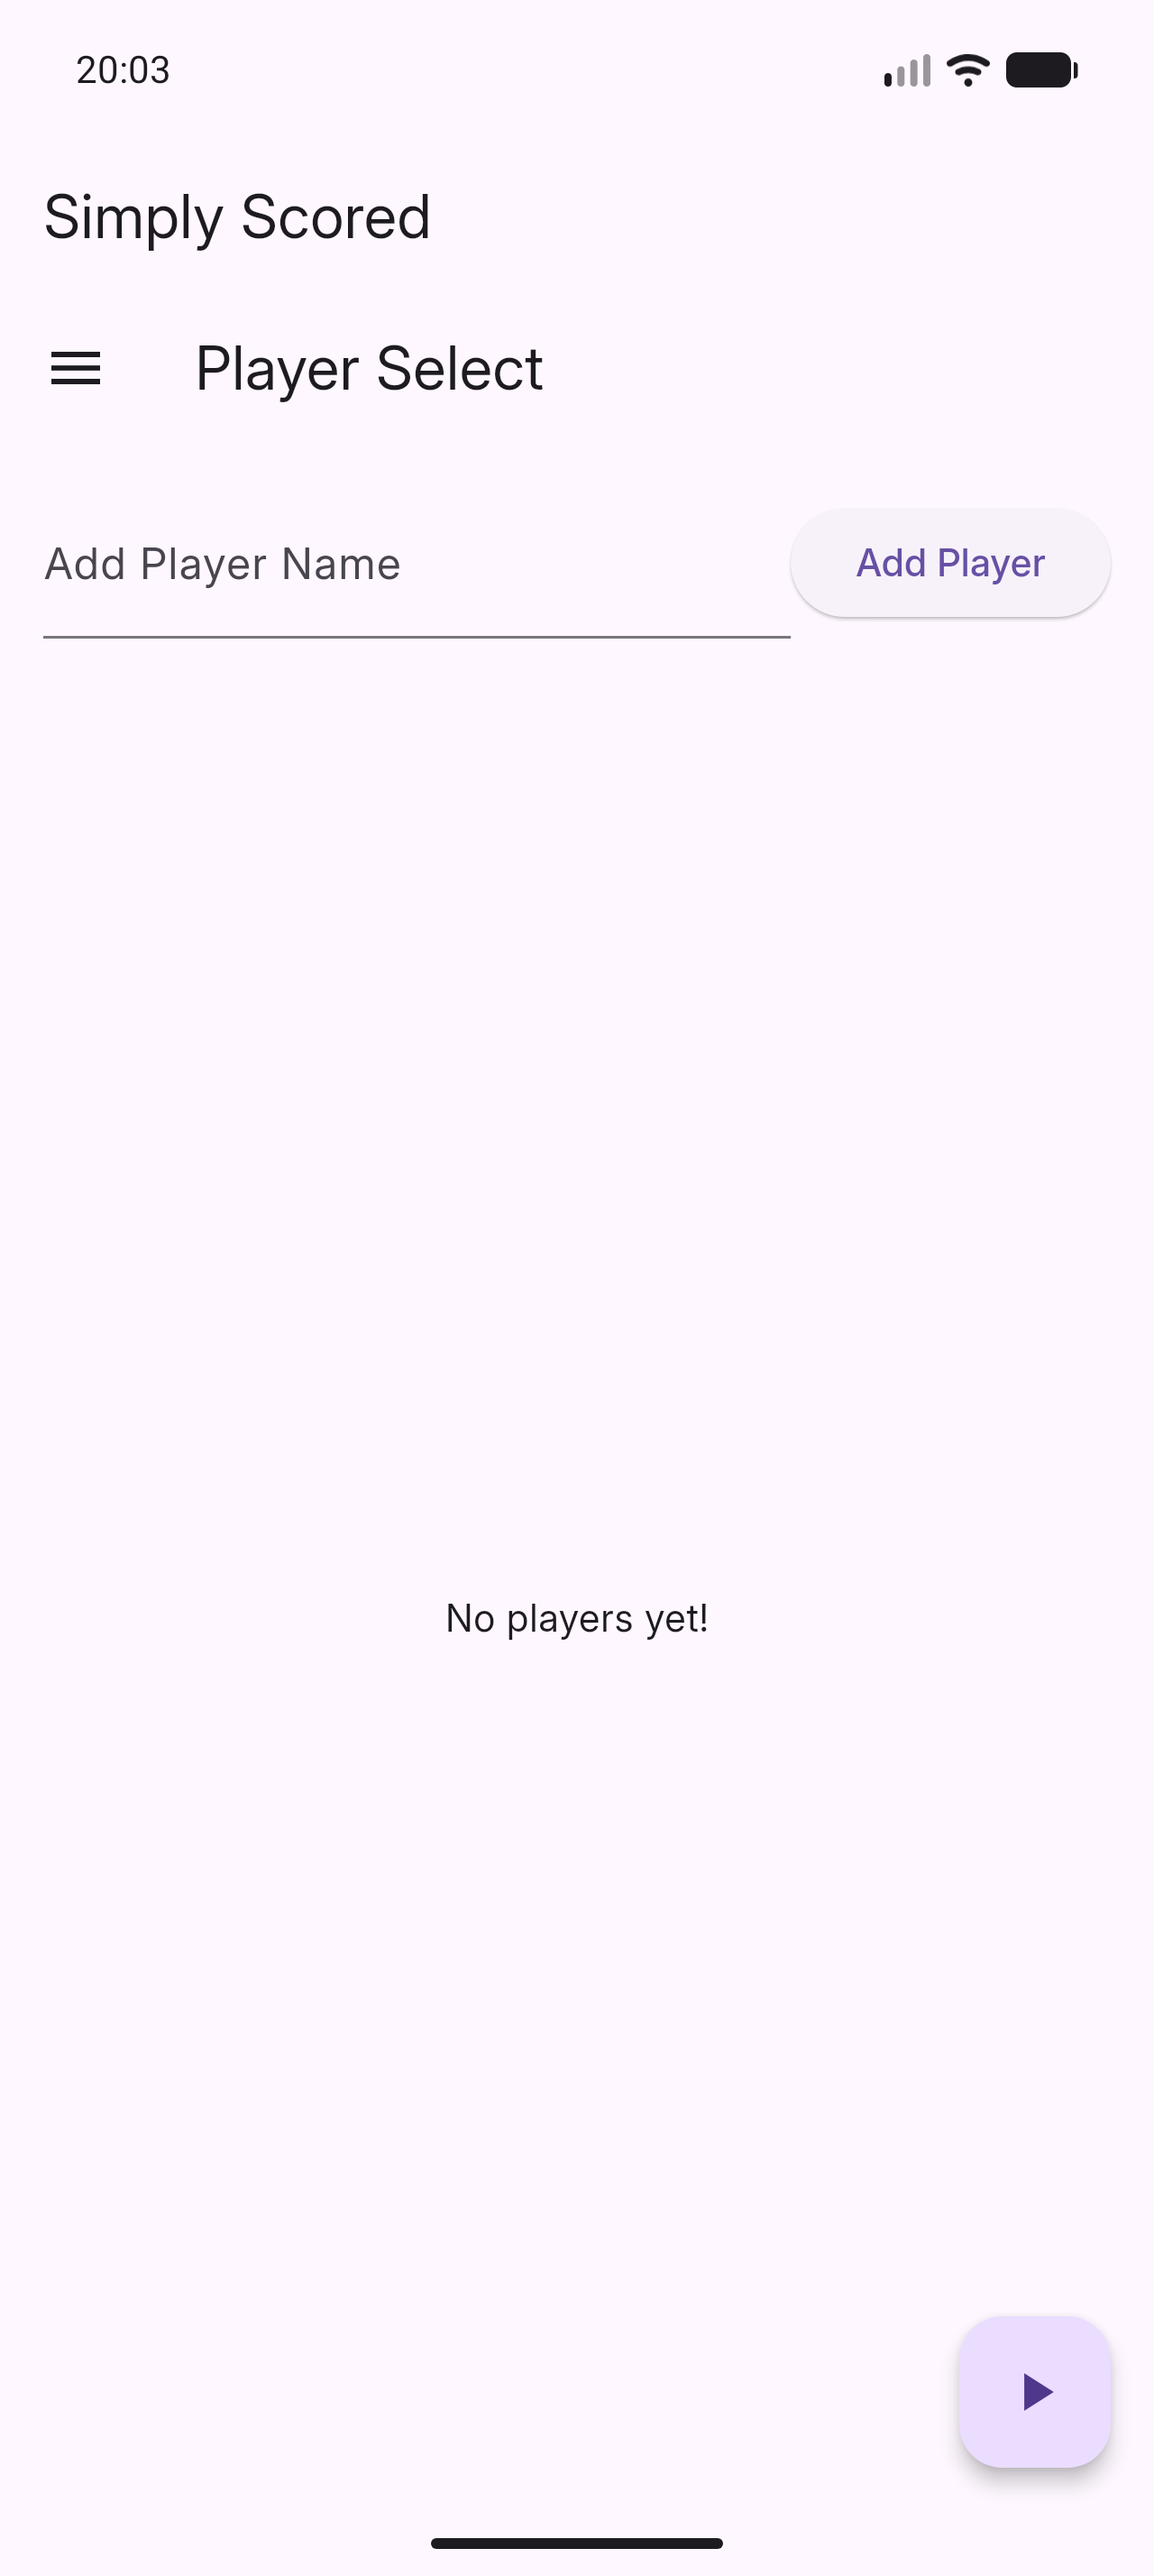
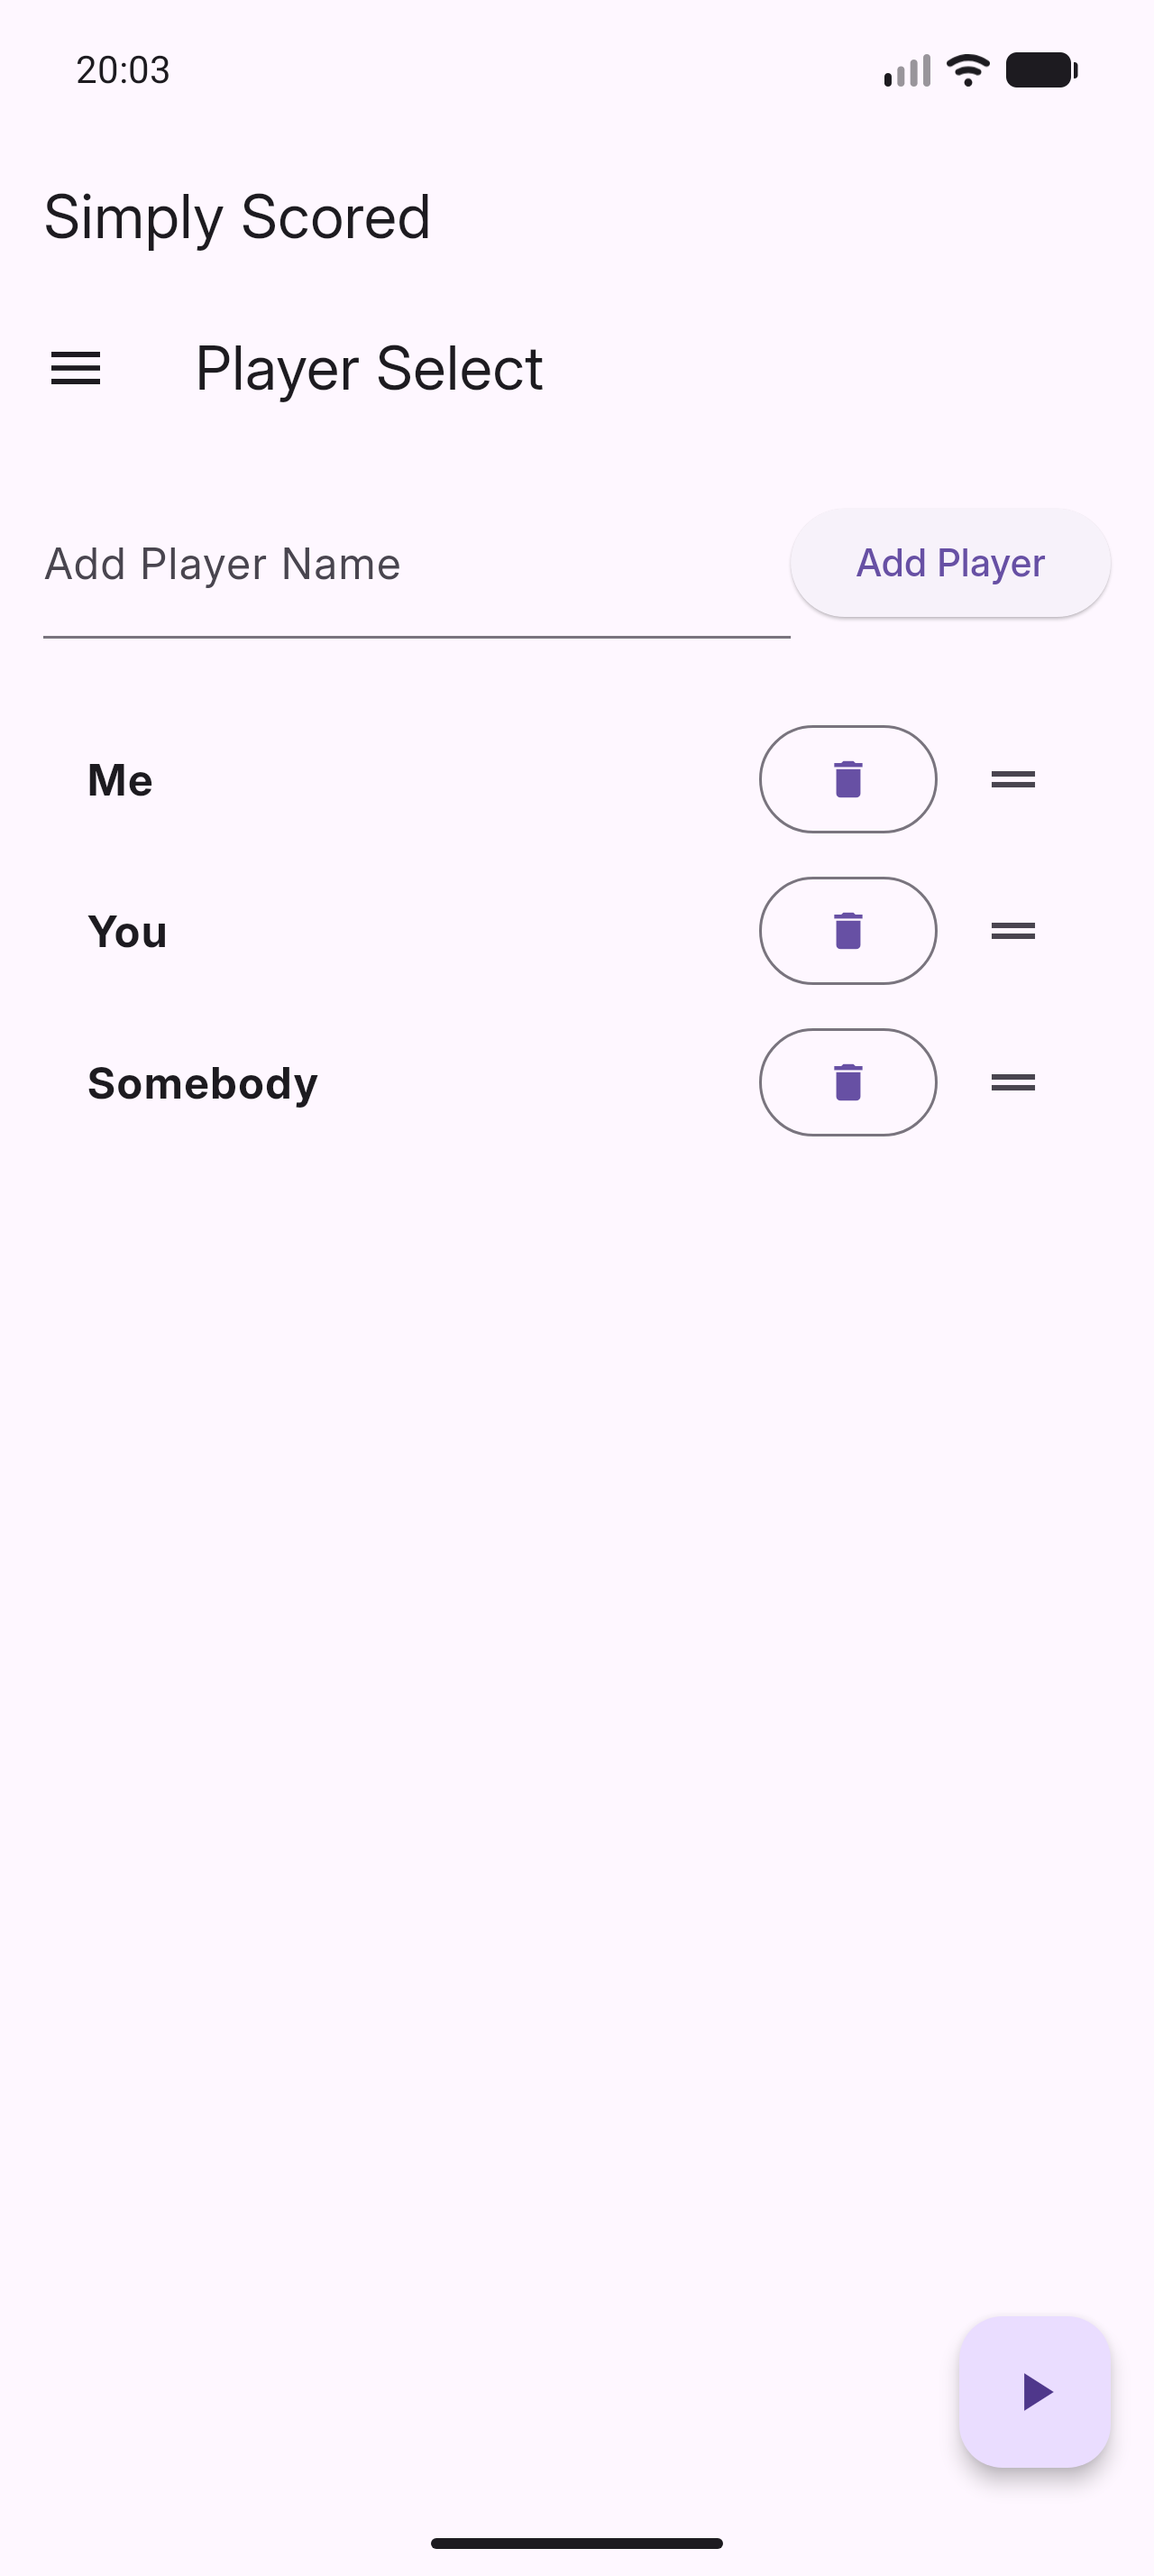
AI: Fix Mockdata for screenshots #22

diff --git a/test/screenshots_test.dart b/test/screenshots_test.dart
@@ -3,6 +3,7 @@ library;
 import 'package:flutter/material.dart';
 import 'package:flutter_test/flutter_test.dart';
 import 'package:golden_screenshot/golden_screenshot.dart';
+import 'package:package_info_plus/package_info_plus.dart';
 import 'package:simply_scored/components/scoreboard.dart';
 import 'package:simply_scored/main.dart';
 import 'package:shared_preferences/shared_preferences.dart';
@@ -10,13 +11,29 @@ import 'package:shared_preferences/shared_preferences.dart';
 void main() {
   group('Screenshot:', () {
     TestWidgetsFlutterBinding.ensureInitialized();
+    Map<String, Object> mockValues = {
+      'players': ['Me', 'You', 'Somebody'],
+    };
     setUpAll(() async {
-      SharedPreferences.setMockInitialValues({});
+      SharedPreferences.setMockInitialValues(mockValues);
+      PackageInfo.setMockInitialValues(
+        appName: 'Simply Scored',
+        packageName: 'com.simplyscored',
+        version: '1.0.0',
+        buildNumber: '1',
+        buildSignature: 'signature',
+      );
     });
     _screenshot('PlayerSelect', home: HomePage());
     _screenshot(
       'Scoresheet',
       home: ScoreSheetsTable(players: ['Me', 'You', 'Somebody']),
+      beforeScreenshot: (tester) async {
+        await tester.enterText(find.byType(TextField).at(0), '10');
+        await tester.enterText(find.byType(TextField).at(1), '20');
+        await tester.enterText(find.byType(TextField).at(2), '30');
+        await tester.pumpAndSettle();
+      },
     );
   });
 }
